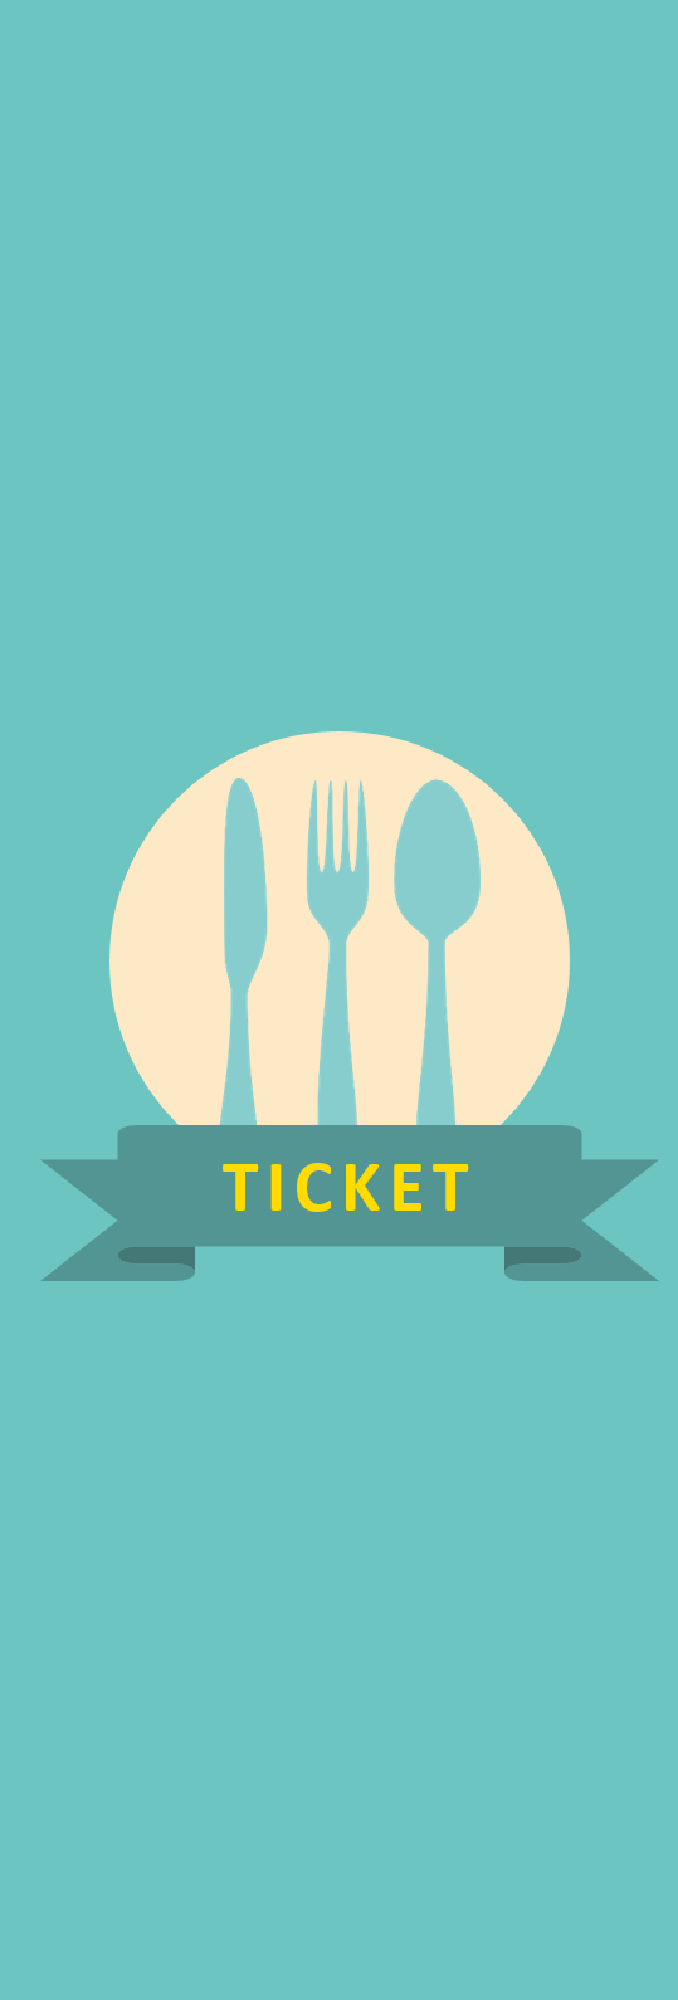
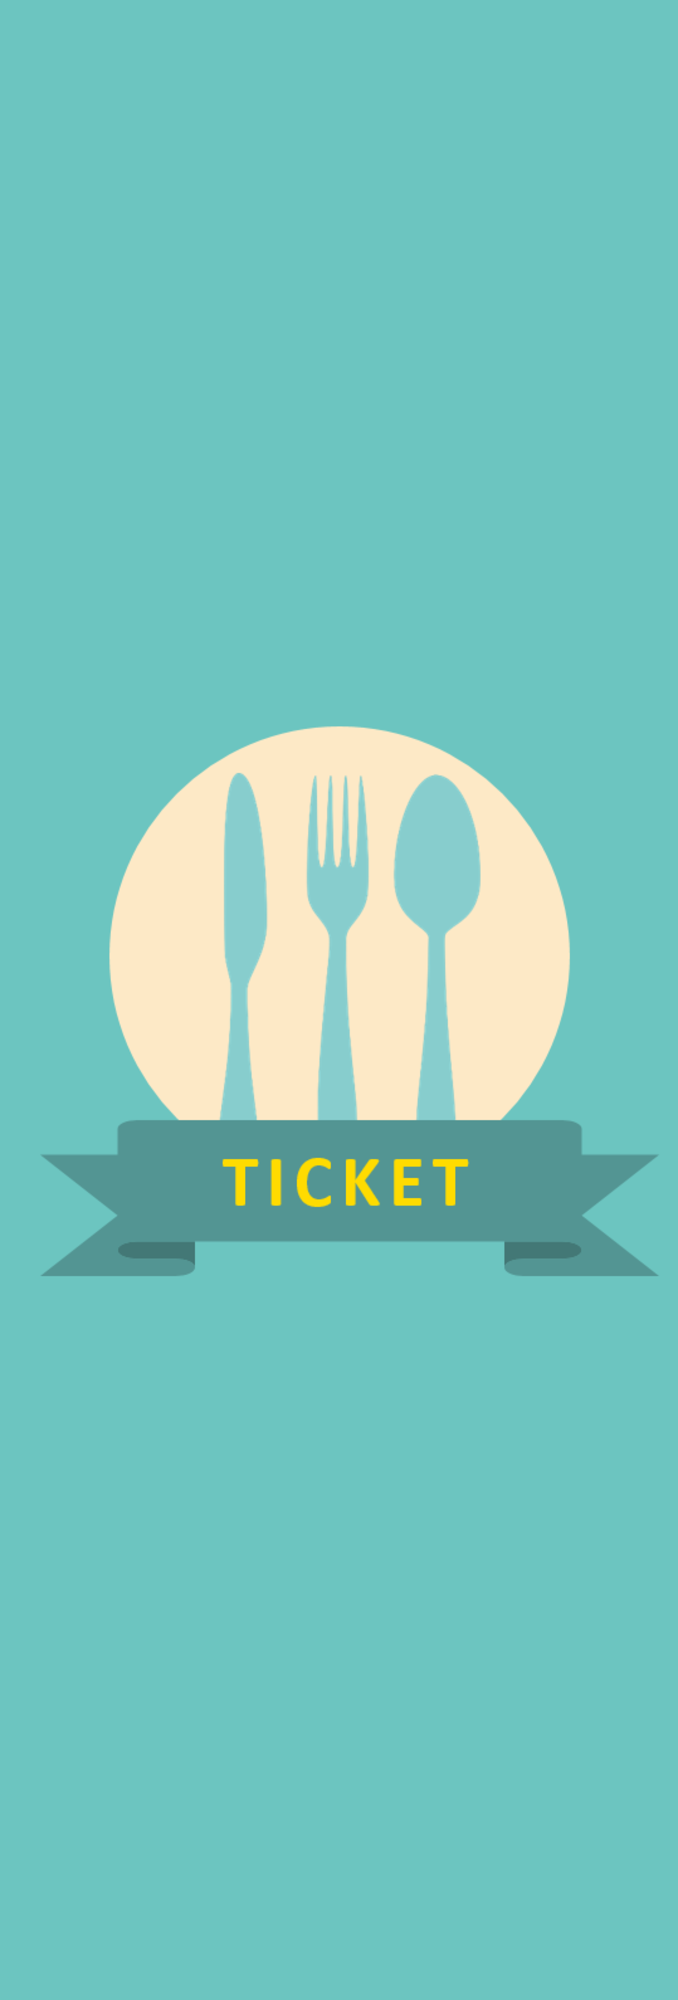
메인화면 이미지 교체 등
warning 메시지 제거

diff --git a/client/src/components/views/LandingPage/LandingPage.js b/client/src/components/views/LandingPage/LandingPage.js
@@ -21,9 +21,11 @@ const App = styled.div`
 `;
 
 const Title = styled.div`
-  font-size: 30px;
-  margin-bottom: 100px;
+  display: none;
   @media (max-width: 767px) {
+    display: block;
+    font-size: 30px;
+    margin-bottom: 100px;
     margin-top: 50px;
     margin-bottom: 70px;
     color: white;
@@ -38,8 +40,7 @@ const CardContainer = styled(Row)`
     margin-bottom: -1px !important;
     border-radius: 30px 30px 0 0 !important;
     background-color: white;
-    box-shadow: 3px -7px 5px rgba(50, 50, 93, 0.2),
-      -3px -7px 5px rgba(50, 50, 93, 0.2);
+    box-shadow: 3px -7px 5px rgba(50, 50, 93, 0.2), -3px -7px 5px rgba(50, 50, 93, 0.2);
   }
 `;
 
@@ -70,12 +71,11 @@ const Img = styled.img`
   align-self: center;
   margin-bottom: 5px;
   transition: 0.2s;
-  background: cover;
   background-position: center center;
   @media (max-width: 767px) {
     position: relative;
-    width: 210px;
-    height: 210px;
+    width: 42vw;
+    height: 42vw;
     border-radius: 10px;
     box-shadow: 0 13px 27px -5px rgba(50, 50, 93, 0.25),
       0 8px 16px -8px rgba(0, 0, 0, 0.3), 0 -6px 16px -6px rgba(0, 0, 0, 0.025);
@@ -97,10 +97,11 @@ const Blur = styled.div`
 `;
 
 const CardTitle = styled.span`
+  display:none;
   position: relative;
   width: 100%;
   text-align: center;
-  z-index: 1;
+  z-index: 1222;
   color: black;
   font-size: 22px;
   letter-spacing: 2px;
@@ -109,6 +110,7 @@ const CardTitle = styled.span`
   margin-top: 5px;
   user-select: none;
   @media (max-width: 1200px) {
+    display:block;
     font-size: 18px;
   }
   @media (max-width: 992px) {
@@ -131,11 +133,8 @@ const Card = styled(Col)`
   animation: ${FadeIn} 0.3s ease;
   &:hover ${StyledLink} {
     @media (max-width: 767px) {
-      transition: 0.2s;
-      border: 10px solid transparent;
+      transform: scale(1.07);
     }
-    /* opacity: 0; */
-    /* transform: scale(1.08) !important; */
   }
   &:hover ${CardTitle} {
     @media (max-width: 1200px) {
@@ -189,12 +188,8 @@ function LandingPage() {
           <Card md={6} sm={12} xs={12} key={idx}>
             <StyledLink to={isSection(idx + 1)} draggable='false' key={idx}>
               <Img
-                src={`/images/${idx + 1}.jpg`}
+                src={`/images/${idx + 1}.png`}
                 draggable='false'
-                onError={(e) => {
-                  e.target.onerror = null;
-                  e.target.src = `/images/${idx + 1}.png`;
-                }}
                 alt={sectionName[idx]}
                 style={{ objectFit: 'cover' }}
               />

diff --git a/client/src/components/views/MenuPage/MenuPage.js b/client/src/components/views/MenuPage/MenuPage.js
@@ -41,9 +41,9 @@ function MenuPage(props) {
       .then((response) => {
         if (response.data.success) {
           //cnt property 생성
-          response.data.result.map((props) => {
-            props.cnt = 0;
-          });
+          response.data.result.map((props) =>
+            props.cnt = 0
+          );
           setMenu(response.data.result);
           setLoading(true);
         } else {
@@ -54,9 +54,9 @@ function MenuPage(props) {
 
   const getCnt = () => {
     let count = 0;
-    Menu.map((props) => {
-      count += props.cnt;
-    });
+    Menu.map((props) =>
+      count += props.cnt
+    );
     return count;
   };
 
@@ -116,7 +116,7 @@ function MenuPage(props) {
       .cancel(() => { })
       .done(() => {
         let variable = { _id: user.userData._id, Cart: [] };
-        Menu.map((menu) => {
+        Menu.forEach((menu) => {
           if (menu.cnt > 0) {
             variable.Cart.push(menu);
           }

diff --git a/client/src/components/views/LoginPage/LoginPage.js b/client/src/components/views/LoginPage/LoginPage.js
@@ -4,7 +4,7 @@ import styled from 'styled-components';
 import { loginUser, registerUser } from '../../../_actions/user_actions';
 import { Formik } from 'formik';
 import * as Yup from 'yup';
-import { Form, Input, Button, Checkbox, Typography, message } from 'antd';
+import { Form, Input, Button, Checkbox, Typography } from 'antd';
 import { useDispatch } from 'react-redux';
 import { saveToken } from '../../Config';
 import { KakaoLogin, GithubLogin } from '../SocialLogin';

diff --git a/client/src/components/Style_Global.js b/client/src/components/Style_Global.js
@@ -7,6 +7,7 @@ body{
     sans-serif;
   -webkit-font-smoothing: antialiased;
   -moz-osx-font-smoothing: grayscale;
+  overflow-x: hidden;
 }
 
 /* =================================
